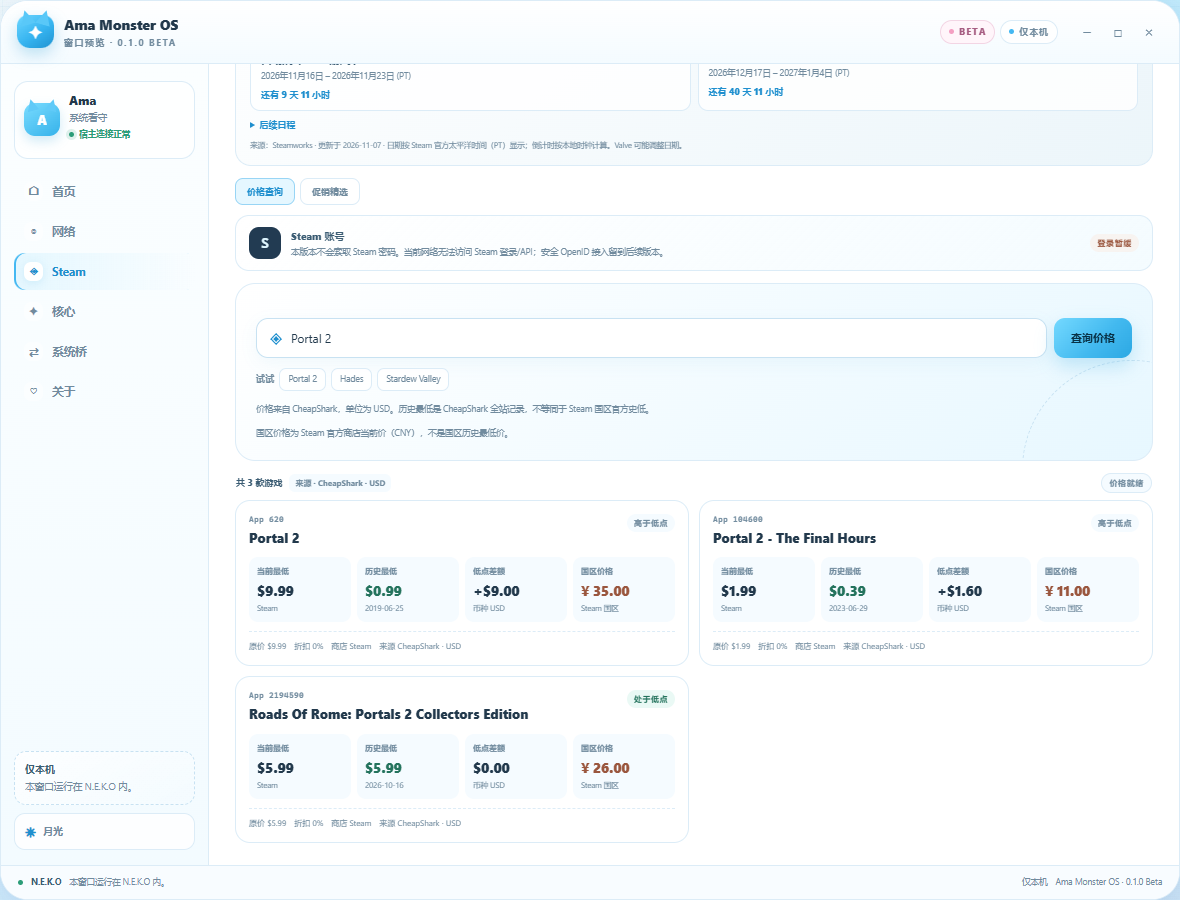
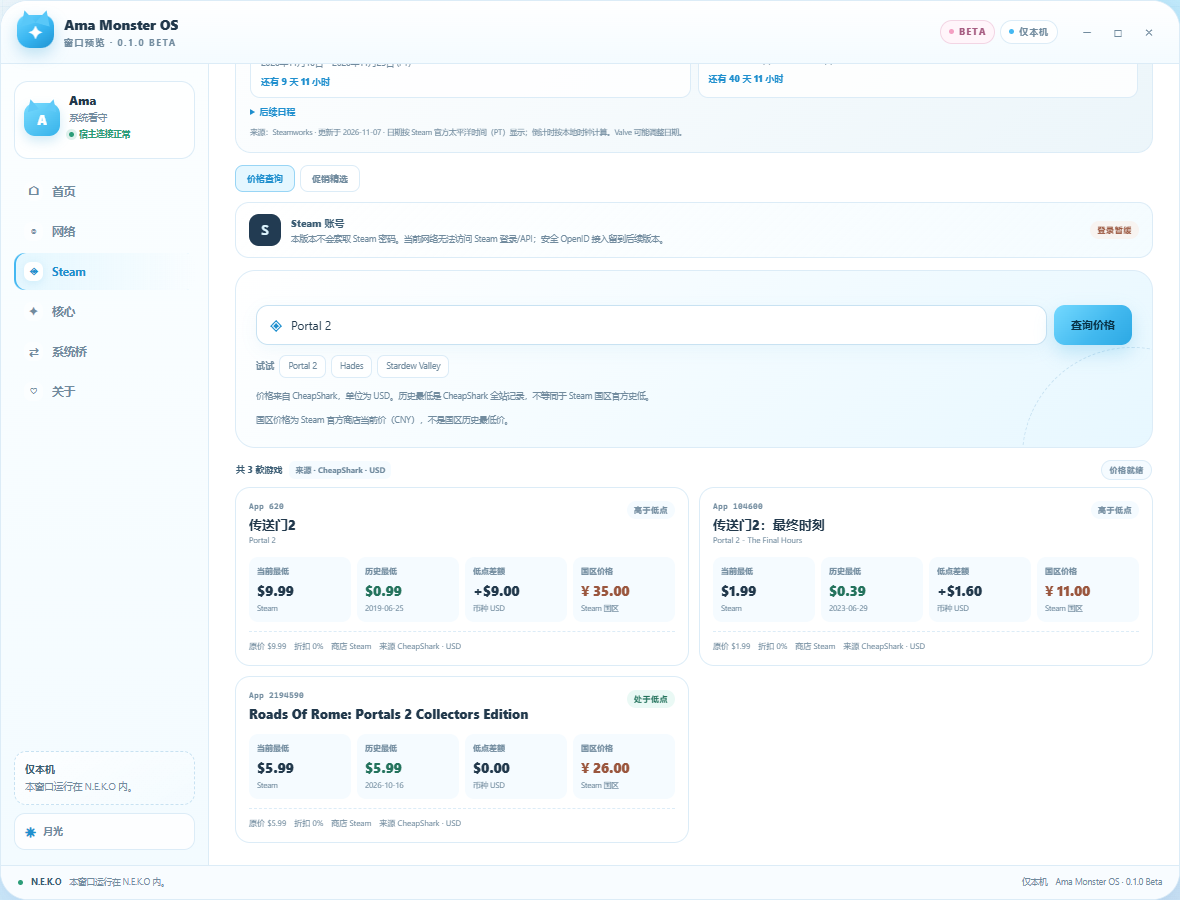
feat: add Chinese titles to Steam recommendations

diff --git a/ui/panel.tsx b/ui/panel.tsx
@@ -79,6 +79,7 @@ type SteamPrice = {
   game_id?: string
   steam_app_id?: string
   title?: string
+  title_cn?: string
   currency?: string
   current?: {
     price?: string
@@ -148,6 +149,7 @@ type SteamDeal = SteamPrice & {
 type SteamFree = {
   app_id?: string
   title?: string
+  title_cn?: string
   store_url?: string
   source?: string
 }
@@ -930,6 +932,7 @@ const STYLES = `
 .ama-deal-discount { flex: 0 0 auto; padding: 2px 6px; border-radius: 5px; background: var(--mint); color: var(--mint-ink); font-family: ui-monospace, "Cascadia Code", Consolas, monospace; font-size: 9px; font-weight: 900; }
 .ama-hoard { display: inline-flex; align-items: center; padding: 2px 6px; border-radius: 999px; background: color-mix(in srgb, var(--peach) 30%, transparent); color: var(--peach-ink); font-size: 7px; font-weight: 800; letter-spacing: .03em; white-space: nowrap; }
 .ama-deal-title { margin: 4px 0 0; color: var(--ink); font-size: 12px; font-weight: 850; line-height: 1.35; overflow-wrap: anywhere; }
+.ama-deal-title-alt { margin-top: 1px; color: var(--muted); font-size: 8px; overflow-wrap: anywhere; }
 .ama-deal-price-row { display: flex; align-items: baseline; gap: 7px; margin-top: 6px; }
 .ama-deal-price-row strong { color: var(--sky-deep); font-size: 17px; font-weight: 900; letter-spacing: -.03em; }
 .ama-deal-price-row s { color: var(--muted); font-size: 9px; }
@@ -945,6 +948,7 @@ const STYLES = `
 .ama-free-top { display: flex; align-items: center; justify-content: space-between; gap: 5px; }
 .ama-free-badge { padding: 2px 6px; border-radius: 5px; background: color-mix(in srgb, var(--mint) 25%, transparent); color: var(--mint-ink); font-size: 7px; font-weight: 900; letter-spacing: .08em; }
 .ama-free-title { margin: 5px 0 0; color: var(--ink-soft); font-size: 10px; font-weight: 800; line-height: 1.35; overflow-wrap: anywhere; }
+.ama-free-title-alt { margin-top: 1px; color: var(--muted); font-size: 7.5px; overflow-wrap: anywhere; }
 .ama-free-actions { margin-top: 7px; }
 .ama-steam-account {
   display: flex;
@@ -968,6 +972,7 @@ const STYLES = `
 .ama-steam-head { display: flex; align-items: flex-start; justify-content: space-between; gap: 8px; }
 .ama-steam-app { color: var(--muted); font-family: ui-monospace, "Cascadia Code", Consolas, monospace; font-size: 8px; font-weight: 700; letter-spacing: .04em; }
 .ama-steam-title { margin: 3px 0 0; font-size: 13px; font-weight: 850; line-height: 1.35; overflow-wrap: anywhere; }
+.ama-steam-title-alt { margin-top: 1px; color: var(--muted); font-size: 8px; overflow-wrap: anywhere; }
 .ama-steam-low { flex: 0 0 auto; padding: 3px 7px; border-radius: 999px; background: var(--panel-2); color: var(--muted); font-size: 8px; font-weight: 850; letter-spacing: .06em; text-transform: uppercase; }
 .ama-steam-low.is-low { background: color-mix(in srgb, var(--mint) 30%, transparent); color: var(--mint-ink); }
 .ama-steam-prices { display: grid; grid-template-columns: repeat(4, minmax(0, 1fr)); gap: 6px; margin-top: 11px; }
@@ -2127,7 +2132,8 @@ export default function AmaMonsterOsPanel(props: PluginSurfaceProps<ShellState>)
                 <div className="ama-steam-head">
                   <div>
                     <div className="ama-steam-app">{tr("steam.appId", "App")} {game.steam_app_id || "—"}</div>
-                    <h3 className="ama-steam-title">{game.title || "—"}</h3>
+                    <h3 className="ama-steam-title">{game.title_cn || game.title || "—"}</h3>
+                    {game.title_cn ? <div className="ama-steam-title-alt">{game.title || ""}</div> : null}
                   </div>
                   <span className={`ama-steam-low${isLow ? " is-low" : ""}`}>
                     {isLow ? tr("steam.atLow", "At the low") : tr("steam.aboveLow", "Above the low")}
@@ -2229,7 +2235,8 @@ export default function AmaMonsterOsPanel(props: PluginSurfaceProps<ShellState>)
                         {deal.hoard_worthy ? <span className="ama-hoard">{tr("steam.hoard", "Can skip playing; can't skip owning.")}</span> : null}
                       </div>
                       <div className="ama-steam-app">App {deal.steam_app_id || "—"}{releaseYear ? ` · ${releaseYear}` : ""}</div>
-                      <h3 className="ama-deal-title">{deal.title || "—"}</h3>
+                      <h3 className="ama-deal-title">{deal.title_cn || deal.title || "—"}</h3>
+                      {deal.title_cn ? <div className="ama-deal-title-alt">{deal.title || ""}</div> : null}
                       <div className="ama-deal-price-row">
                         <strong>{usd(current.price)}</strong>
                         <s>{usd(current.retail_price)}</s>
@@ -2275,7 +2282,8 @@ export default function AmaMonsterOsPanel(props: PluginSurfaceProps<ShellState>)
                     <span className="ama-free-badge">{tr("steam.free.badge", "FREE")}</span>
                     <span className="ama-steam-app">App {game.app_id || "—"}</span>
                   </div>
-                  <h3 className="ama-free-title">{game.title || "—"}</h3>
+                  <h3 className="ama-free-title">{game.title_cn || game.title || "—"}</h3>
+                  {game.title_cn ? <div className="ama-free-title-alt">{game.title || ""}</div> : null}
                   <div className="ama-free-actions">
                     {isHttpUrl(game.store_url) ? (
                       <FileDownload href={String(game.store_url)} label={tr("web.open", "Open")} className="ama-web-open" />

diff --git a/system_port.py b/system_port.py
@@ -28,6 +28,7 @@ from datetime import datetime, timezone
 from typing import Any, Mapping
 
 try:  # package-relative imports when loaded as plugin.plugins.ama_monster_os
+    from .steam_catalog import chinese_title
     from .system_contract import (
         CAPABILITY_ACTIONS,
         CAPABILITY_ACTIVITY,
@@ -41,6 +42,7 @@ try:  # package-relative imports when loaded as plugin.plugins.ama_monster_os
         utc_now_iso,
     )
 except ImportError:  # pragma: no cover - direct test import fallback
+    from steam_catalog import chinese_title  # type: ignore[no-redef]
     from system_contract import (  # type: ignore[no-redef]
         CAPABILITY_ACTIONS,
         CAPABILITY_ACTIVITY,
@@ -364,6 +366,8 @@ def _search_cheapshark_sync(
             results.append(entry)
 
     _attach_cn_prices(results)
+    for entry in results:
+        entry["title_cn"] = chinese_title(str(entry.get("title") or ""))
     return {
         "ok": bool(results),
         "available": True,
@@ -516,6 +520,18 @@ def _fetch_steam_deals_sync(limit: int) -> dict[str, Any]:
         })
 
     _attach_cn_prices(results)
+    missing_titles = [
+        str(item.get("steam_app_id") or "")
+        for item in results
+        if not chinese_title(str(item.get("title") or ""))
+    ]
+    localized_names = _fetch_steam_names_sync(missing_titles) if missing_titles else {}
+    for entry in results:
+        app_id = str(entry.get("steam_app_id") or "")
+        entry["title_cn"] = chinese_title(
+            str(entry.get("title") or ""),
+            localized_names.get(app_id, ""),
+        )
     return {
         "ok": bool(results),
         "available": True,
@@ -599,6 +615,31 @@ def _fetch_cn_prices_sync(app_ids: list[str]) -> dict[str, Any]:
             "source": "Steam CN",
         }
     return {"ok": True, "prices": prices, "at": utc_now_iso()}
+
+
+def _fetch_steam_names_sync(app_ids: list[str]) -> dict[str, str]:
+    """Read localized App Hub names for the recommendation cards."""
+
+    names: dict[str, str] = {}
+    for app_id in list(dict.fromkeys(str(item).strip() for item in app_ids))[:8]:
+        if not app_id.isdigit():
+            continue
+        url = (
+            f"{_STEAM_CN_API}?appids={urllib.parse.quote(app_id)}"
+            "&cc=cn&l=schinese&filters=basic"
+        )
+        try:
+            payload = _http_json(url, max_bytes=_MAX_PRICE_HTTP_BYTES, user_agent=_PRICE_USER_AGENT)
+        except Exception:
+            continue
+        item = payload.get(app_id) if isinstance(payload, Mapping) else None
+        data = item.get("data") if isinstance(item, Mapping) else None
+        if isinstance(data, Mapping):
+            name = _clean_text(data.get("name"), 200)
+            if name:
+                names[app_id] = name
+        time.sleep(0.08)
+    return names
 
 
 def _attach_cn_prices(entries: list[dict[str, Any]]) -> None:

diff --git a/steam_catalog.py b/steam_catalog.py
@@ -19,6 +19,38 @@ FREE_TO_PLAY: tuple[dict[str, Any], ...] = (
     {"app_id": "1172470", "title": "Apex Legends"},
 )
 
+# Common Chinese names for titles whose Steam appdetails name stays English.
+# Steam's localized name wins when it contains CJK; this map is the fallback.
+CN_TITLE_ALIASES: dict[str, str] = {
+    "Counter-Strike 2": "反恐精英2",
+    "Dota 2": "刀塔2",
+    "Team Fortress 2": "军团要塞2",
+    "Warframe": "星际战甲",
+    "Path of Exile": "流放之路",
+    "Apex Legends": "Apex 英雄",
+    "Portal 2": "传送门2",
+    "Portal 2 - The Final Hours": "传送门2：最终时刻",
+    "Sid Meier's Civilization IV": "文明4",
+    "Company of Heroes": "英雄连",
+    "Borderlands 2": "无主之地2",
+    "Cross Blitz": "纵横命途",
+    "Owlboy": "猫头鹰男孩",
+    "For The King": "为了吾王",
+}
+
+
+def _has_cjk(text: str) -> bool:
+    return any("\u4e00" <= char <= "\u9fff" for char in text)
+
+
+def chinese_title(title: str, localized: str = "") -> str:
+    """Return a Chinese title, preferring an official CJK Steam name."""
+
+    candidate = str(localized or "").strip()
+    if candidate and _has_cjk(candidate):
+        return candidate
+    return CN_TITLE_ALIASES.get(str(title or "").strip(), "")
+
 
 def free_to_play_entries() -> list[dict[str, Any]]:
     """Return the static shelf with fixed Steam store links."""
@@ -26,6 +58,7 @@ def free_to_play_entries() -> list[dict[str, Any]]:
     return [
         {
             **item,
+            "title_cn": chinese_title(item["title"]),
             "store_url": f"https://store.steampowered.com/app/{item['app_id']}/",
             "source": "Steam",
         }
@@ -33,4 +66,11 @@ def free_to_play_entries() -> list[dict[str, Any]]:
     ]
 
 
-__all__ = ["FREE_TO_PLAY", "FREE_TO_PLAY_UPDATED", "free_to_play_entries"]
+__all__ = [
+    "CN_TITLE_ALIASES",
+    "FREE_TO_PLAY",
+    "FREE_TO_PLAY_UPDATED",
+    "chinese_title",
+    "free_to_play_entries",
+]
+

diff --git a/tests/test_runtime.py b/tests/test_runtime.py
@@ -93,6 +93,7 @@ class FakePort:
                 "game_id": "36",
                 "steam_app_id": "620",
                 "title": "Portal 2",
+                "title_cn": "传送门2",
                 "currency": "USD",
                 "current": {
                     "price": "9.99",
@@ -134,6 +135,7 @@ class FakePort:
                 "game_id": "88304",
                 "steam_app_id": "49520",
                 "title": "Borderlands 2",
+                "title_cn": "无主之地2",
                 "currency": "USD",
                 "current": {
                     "price": "1.99",
@@ -305,6 +307,7 @@ def test_steam_prices_store_history_and_snapshot() -> None:
     assert snapshot["steam"]["status"] == "ok"
     assert snapshot["steam"]["account_mode"] == "deferred"
     assert snapshot["steam"]["results"][0]["steam_app_id"] == "620"
+    assert snapshot["steam"]["results"][0]["title_cn"] == "传送门2"
     assert snapshot["steam"]["results"][0]["cn"]["price"] == "35.00"
     assert snapshot["steam"]["sale"]["source"] == "Steamworks"
     assert snapshot["steam"]["sale"]["updated"] == "2026-11-07"
@@ -342,6 +345,7 @@ def test_steam_deals_and_free_shelf_in_snapshot() -> None:
     assert deals["results"][0]["steam_app_id"] == "49520"
     assert snapshot["steam"]["deals"]["status"] == "ok"
     assert snapshot["steam"]["deals"]["results"][0]["history"]["lowest"] == "1.99"
+    assert snapshot["steam"]["deals"]["results"][0]["title_cn"] == "无主之地2"
     assert snapshot["steam"]["deals"]["results"][0]["cn"]["price"] == "6.40"
     assert snapshot["steam"]["free_to_play_updated"] == "2026-11-07"
     assert any(game["app_id"] == "730" for game in snapshot["steam"]["free_to_play"])

diff --git a/tests/test_steam_catalog.py b/tests/test_steam_catalog.py
@@ -1,6 +1,11 @@
 from __future__ import annotations
 
-from steam_catalog import FREE_TO_PLAY, FREE_TO_PLAY_UPDATED, free_to_play_entries
+from steam_catalog import (
+    FREE_TO_PLAY,
+    FREE_TO_PLAY_UPDATED,
+    chinese_title,
+    free_to_play_entries,
+)
 
 
 def test_free_shelf_has_fixed_store_links() -> None:
@@ -10,3 +15,11 @@ def test_free_shelf_has_fixed_store_links() -> None:
     assert {entry["app_id"] for entry in entries} >= {"730", "570", "440"}
     assert all(entry["store_url"].startswith("https://store.steampowered.com/app/") for entry in entries)
     assert all(entry["source"] == "Steam" for entry in entries)
+    assert next(entry for entry in entries if entry["app_id"] == "730")["title_cn"] == "反恐精英2"
+
+
+def test_chinese_title_prefers_official_cjk_name() -> None:
+    assert chinese_title("Borderlands 2") == "无主之地2"
+    assert chinese_title("Unknown Game") == ""
+    assert chinese_title("Borderlands 2", "无主之地 2") == "无主之地 2"
+    assert chinese_title("Borderlands 2", "Borderlands 2") == "无主之地2"

diff --git a/tests/test_steam_cn.py b/tests/test_steam_cn.py
@@ -42,3 +42,15 @@ def test_steam_cn_prices_handle_request_failure(monkeypatch) -> None:
     assert result["ok"] is False
     assert result["prices"] == {}
     assert result["error"].startswith("request_failed:")
+
+
+def test_localized_steam_name_is_used(monkeypatch) -> None:
+    monkeypatch.setattr(
+        system_port,
+        "_http_json",
+        lambda *args, **kwargs: {
+            "49520": {"success": True, "data": {"name": "无主之地 2"}}
+        },
+    )
+    names = system_port._fetch_steam_names_sync(["49520"])
+    assert names == {"49520": "无主之地 2"}

diff --git a/tests/test_steam_deals.py b/tests/test_steam_deals.py
@@ -72,6 +72,7 @@ def test_cheapshark_deal_picks_are_filtered_and_enriched(monkeypatch) -> None:
     assert pick["hoard_worthy"] is True
     assert pick["cn"]["price"] == "6.40"
     assert pick["cn"]["discount_percent"] == 90
+    assert pick["title_cn"] == "无主之地2"
     assert pick["store_url"] == "https://store.steampowered.com/app/49520/"
 
 

diff --git a/README.md b/README.md
@@ -58,6 +58,8 @@ match with CheapShark price data:
 - gap to the all-time low
 - retail price and current discount
 - **Steam China current price in CNY** (including its own discount)
+- **Chinese game titles** for recommendations, preferring Steam's official
+  Simplified Chinese name and falling back to curated aliases for older titles
 - explicit **USD**, **CNY**, and **CheapShark cross-store** labeling
 
 The CN price is a live current price from the official Steam Store API
@@ -100,9 +102,15 @@ The Steam room has two tabs:
 - **促销精选** — a live CheapShark picks list plus the curated free shelf.
 
 Sale picks are filtered to at least **40% off** and a **7/10** CheapShark deal
-rating, then enriched with historical lows and current **CNY** prices. The top
-six show a **“可以不玩，但不能没有”** badge when they are 80%+ off, at or below
-US$5, or at their all-time low. These are editorial picks, not paid placements.
+rating, then enriched with historical lows, current **CNY** prices, and
+**Chinese titles**. The top six show a **“可以不玩，但不能没有”** badge when they
+are 80%+ off, at or below US$5, or at their all-time low. These are editorial
+picks, not paid placements.
+
+Chinese titles prefer the official Steam `l=schinese` name. Older games whose
+Steam name stays English use a small curated alias map (for example
+`Borderlands 2` → `无主之地2`, `Sid Meier's Civilization IV` → `文明4`), with the
+English title kept underneath for verification.
 
 The free shelf lists six **permanently free-to-play** titles with fixed Steam
 store links. It is a versioned snapshot (updated **2026-11-07**), not a
@@ -189,7 +197,6 @@ ama_monster_os/
 ├── docs/system-contract.v1.schema.json
 ├── docs/preview.png             shell preview
 ├── docs/preview-web.png         web room preview
-├── docs/preview-steam.png       Steam price room preview
 ├── docs/preview-cn-price.png    Steam China current price preview
 ├── docs/preview-sale.png        Steam sale radar preview
 ├── docs/preview-picks.png       sale picks preview

diff --git a/docs/system-contract.md b/docs/system-contract.md
@@ -130,6 +130,7 @@ CheapShark and never asks for a Steam password:
       "game_id": "36",
       "steam_app_id": "620",
       "title": "Portal 2",
+      "title_cn": "传送门2",
       "currency": "USD",
       "current": {
         "price": "9.99",
@@ -167,6 +168,9 @@ Rules:
   an official Steam regional price.
 - The `cn` object is the **current** Steam China store price in CNY from the
   official `appdetails` API (`cc=cn`). It is not a CN historical low.
+- `title_cn` prefers a Steam `l=schinese` name containing CJK; for older English-
+  only names a curated alias may be used. Keep `title` as the canonical English
+  name for matching and display it underneath the Chinese title.
 - The all-time low is CheapShark's cross-store record. Keep that attribution.
 - Steam account linking is out of scope for this method. It is the reserved
   `steam.account` seam and must never store a password.
@@ -188,6 +192,7 @@ enriches the top picks with historical lows:
     {
       "steam_app_id": "49520",
       "title": "Borderlands 2",
+      "title_cn": "无主之地2",
       "current": {"price": "1.99", "retail_price": "19.99", "savings_percent": 90, "store": "Steam"},
       "history": {"lowest": "1.99", "date": "2026-11-01", "currency": "USD"},
       "cn": {"available": true, "currency": "CNY", "price": "6.40", "formatted": "¥ 6.40", "discount_percent": 90, "source": "Steam CN"},
@@ -212,6 +217,7 @@ Rules:
 - Recommendations are editorial sort order, not paid placements.
 - Each result may include the current Steam China price as `cn`; it is current,
   not a CN historical low.
+- Use `title_cn` for the Chinese display title and keep `title` for matching.
 - The provider must not present CheapShark's cross-store low as an official
   Steam regional low.
 

diff --git a/DESIGN.md b/DESIGN.md
@@ -25,7 +25,8 @@ from the first version.
 - A Web room that performs live internet searches, shows sanitized results, and opens result links through the Hosted UI external-open bridge.
 - A Steam price room using CheapShark for global current lowest price, all-time low, low date, gap, and discount; USD only for the global data.
 - A Steam China current-price lookup from the official Steam Store API (`cc=cn`, CNY). It is explicitly current, not a CN historical low.
-- A Steam sale-picks tab with high-discount, well-rated games, historical lows, CN prices, and a light-hearted hoard flag.
+- A Steam sale-picks tab with high-discount, well-rated games, historical lows, CN prices, and Chinese titles with English originals underneath.
+- A curated Chinese-title map for older Steam games whose official `l=schinese` name remains English.
 - A curated, versioned free-to-play shelf with fixed Steam store links.
 - A versioned Steam sale calendar snapshot sourced from Steamworks, with current/next event, next seasonal sale, local countdowns, and an official schedule link.
 - A two-provider search chain: N.E.K.O `web_search` first, fixed Bing RSS fallback second.

diff --git a/docs/quickstart.md b/docs/quickstart.md
@@ -42,7 +42,8 @@ Steam 房间顶部有两个标签页：
 促销精选规则：
 
 - 折扣至少 **40%**，CheapShark 口碑至少 **7/10**
-- 取前 6 款，补全历史最低价和 **Steam 国区当前价（CNY）**
+- 取前 6 款，补全历史最低价、**Steam 国区当前价（CNY）**和**中文名**
+- 中文名优先使用 Steam 官方简体中文名；老游戏官方名仍为英文时，使用精选译名回退，并在下方保留英文原名
 - 满足 80%+ 折扣、≤ US$5 或处于史低时，标记 **“可以不玩，但不能没有”**
 - 这是编辑筛选，不是付费推广
 
